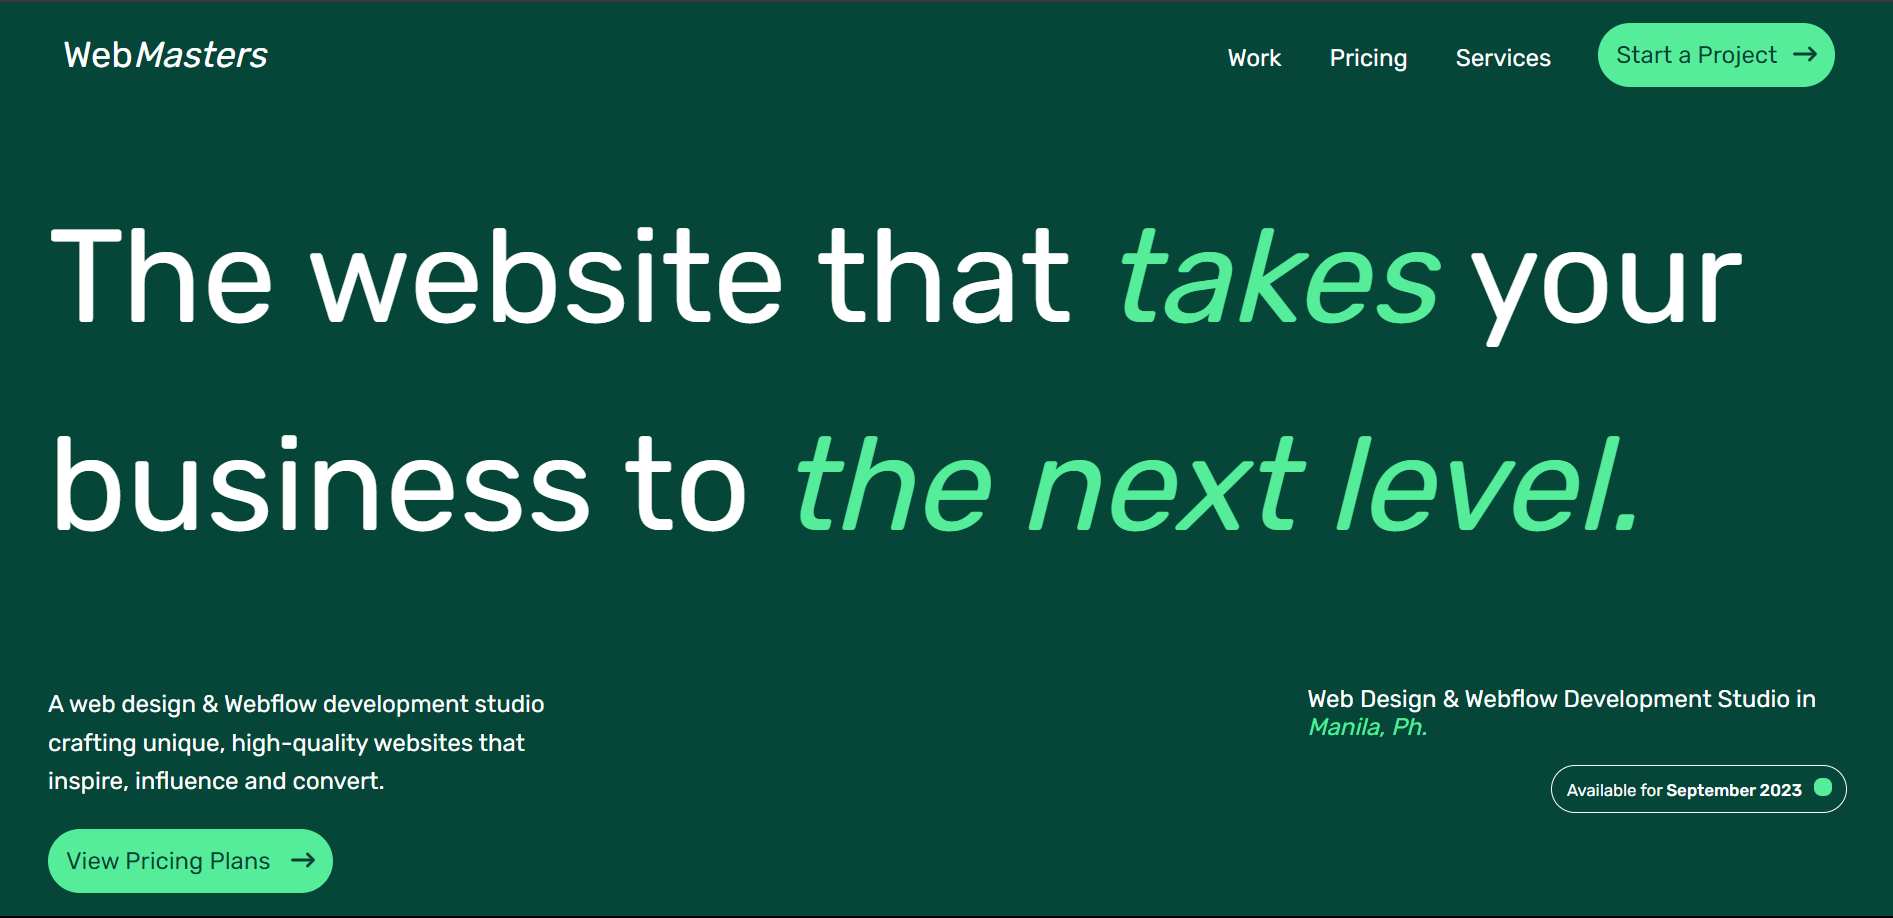
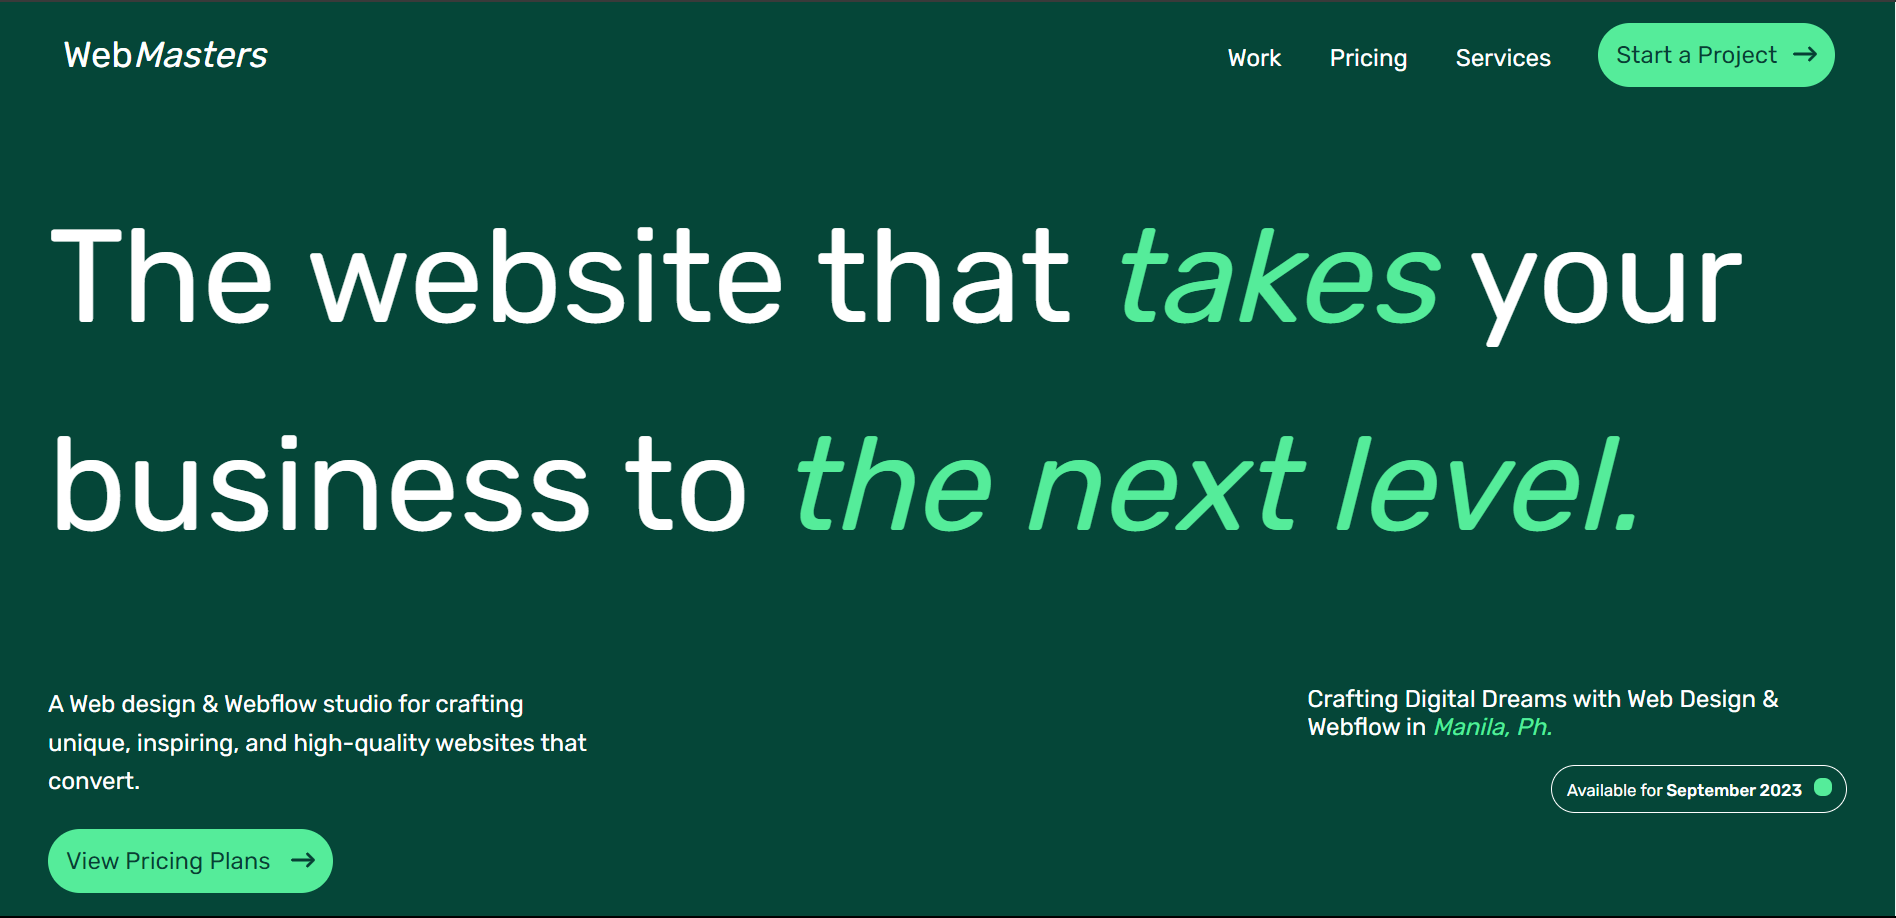
description change

diff --git a/src/components/Showcase.jsx b/src/components/Showcase.jsx
@@ -27,11 +27,11 @@ function Showcase() {
       <div className="descriptions-container">
       {/* This Div has animation entry the same as heading */}
         <div className="description-container">
-            <p className="description">A web design & Webflow development studio crafting unique, high-quality websites that inspire, influence and convert.</p>
+            <p className="description">A Web design & Webflow studio for crafting unique, inspiring, and high-quality websites that convert.</p>
             <button className="view-pricing-plan-btn">View Pricing Plans <FontAwesomeIcon className='arrow-right' icon={faArrowRightLong}/></button>
         </div>
         <div className="location-container">
-            <p className="location">Web Design & Webflow Development Studio in <em className="green-clr">Manila, Ph.</em></p>
+            <p className="location">Crafting Digital Dreams with Web Design & Webflow in <em className="green-clr">Manila, Ph.</em></p>
             <div className="available-date">Available for <span>{nameOfMonth} {year}</span> <div className="green-circle"></div></div>
         </div>
       </div>
